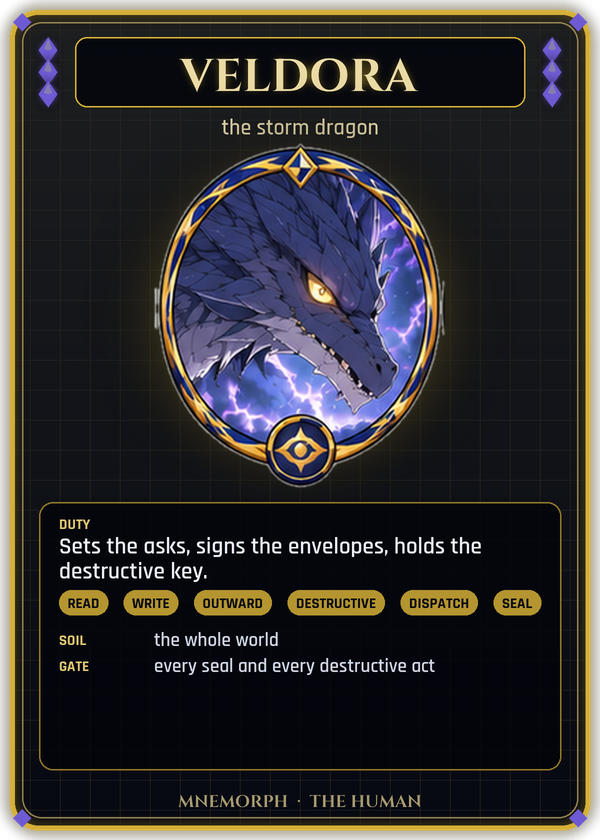
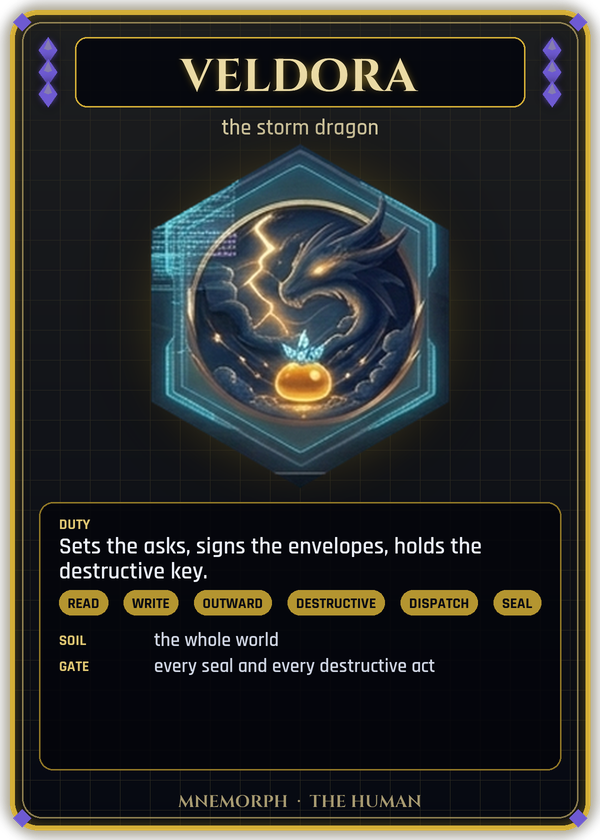
brand: Veldora wears the hex emblem

Changed region(s): [[0.24, 0.1548, 0.75, 0.5881]]

diff --git a/.mnemorph/log.md b/.mnemorph/log.md
@@ -492,3 +492,12 @@ Append-only. One entry per landed change: task, files, gate, result, learned.
 - **Result:** the repository is public; the book change in review as a pull request.
 - **Learned:** escalation reads only code-held signals — occupancy from the ledger, a soil
   refusal, a shelf refusal — so solo never decides by itself that it is "stressed".
+
+---
+
+### [2026-10-24T02:03:52+02:00] rimuru — Veldora wears the emblem
+- **Task:** Veldora asked for the hex emblem as their own icon.
+- **Files:** assets/portraits/veldora{,@64,@32}.png (from assets/brand/mnemorph-hex), assets/cards/veldora.png (redrawn), assets/README.md.
+- **Gate:** n/a. Instruments: the redrawn card viewed.
+- **Result:** in review as a pull request.
+- **Learned:** every portrait now comes from one Gemini sheet — the set is uniform.

diff --git a/assets/README.md b/assets/README.md
@@ -15,7 +15,7 @@ the board's small sizes; the full-size card view waits for higher-resolution ren
 ## The race icons
 
 Cut to `portraits/` (256, 64 and 32 px, transparent) from the hexagons of
-`source/race-icons.jpg`; Veldora, which that sheet lacks, from `source/icons-grid.png`.
+`source/race-icons.jpg`; Veldora wears the emblem's hexagon (`brand/mnemorph-hex.png`).
 
 | <img src="portraits/slime@64.png" width="64" alt="Slime"> | <img src="portraits/rimuru@64.png" width="64" alt="Rimuru"> | <img src="portraits/elf@64.png" width="64" alt="Elf"> | <img src="portraits/orc@64.png" width="64" alt="Orc"> | <img src="portraits/kijin@64.png" width="64" alt="Kijin"> | <img src="portraits/dark-elf@64.png" width="64" alt="Dark Elf"> |
 |:---:|:---:|:---:|:---:|:---:|:---:|
